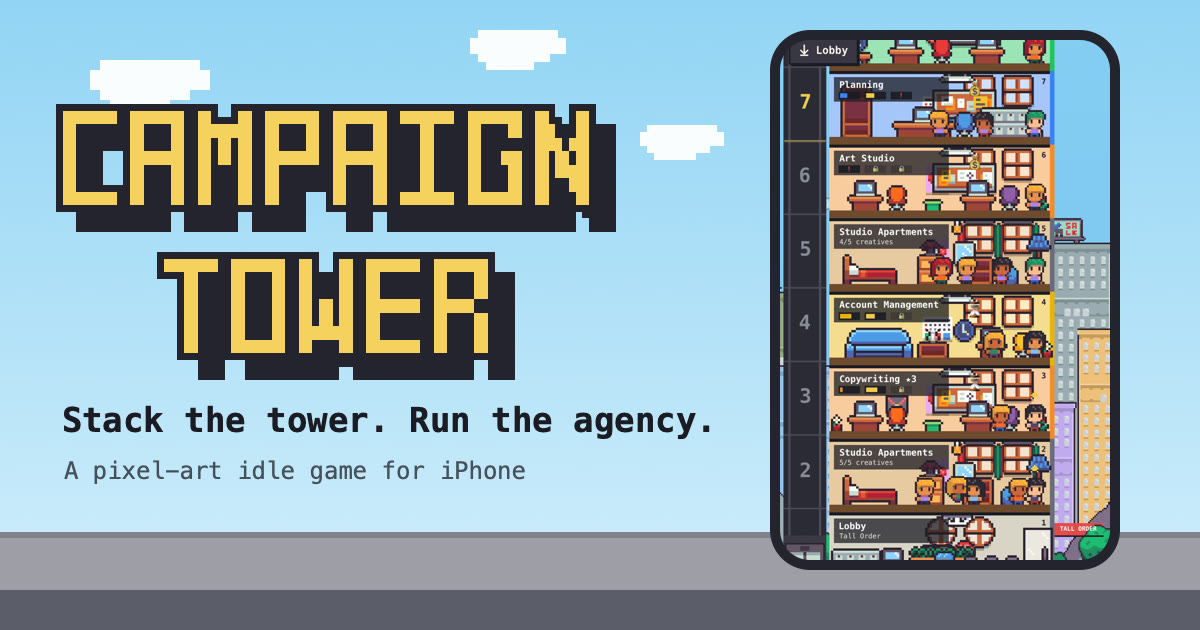
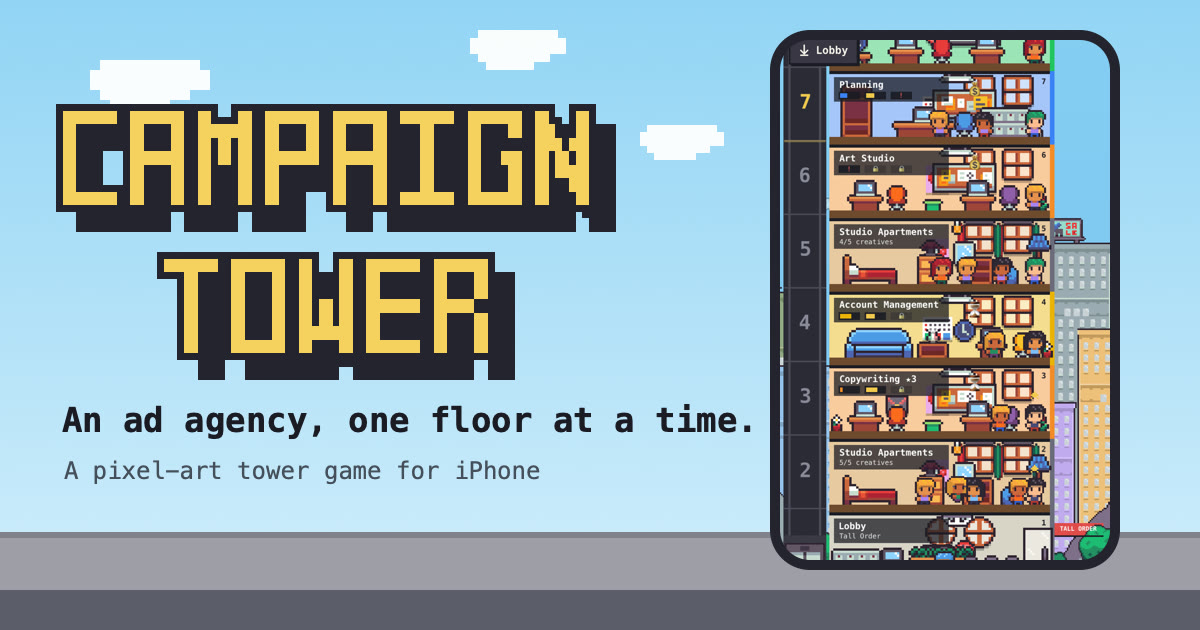
Rewrite the landing page copy

Changed region(s): [[0.0308, 0.6333, 0.6167, 0.6937], [0.185, 0.7238, 0.4625, 0.7841]]

diff --git a/index.html b/index.html
@@ -3,13 +3,13 @@
 <head>
 <meta charset="utf-8">
 <meta name="viewport" content="width=device-width,initial-scale=1">
-<title>Campaign Tower — stack the tower, run the agency</title>
-<meta name="description" content="Campaign Tower is a pixel-art idle game for iPhone. Stack a one-room startup into a global ad agency: hire creatives with opinions, drive the lift, and win briefs from sixty brands with no subtlety at all.">
+<title>Campaign Tower: build an ad agency one floor at a time</title>
+<meta name="description" content="A pixel-art tower game for iPhone. Build an ad agency floor by floor, hire creatives with strange habits, drive the lift yourself and win briefs from sixty made-up brands.">
 <link rel="canonical" href="https://njvb.github.io/campaigntower-site/">
 <meta property="og:type" content="website">
 <meta property="og:url" content="https://njvb.github.io/campaigntower-site/">
 <meta property="og:title" content="Campaign Tower">
-<meta property="og:description" content="Stack the tower. Run the agency. A pixel-art idle game about the ad business, for iPhone.">
+<meta property="og:description" content="Your ad agency starts in one room above a shop. A pixel-art tower game for iPhone.">
 <meta property="og:image" content="https://njvb.github.io/campaigntower-site/img/share.jpg">
 <meta property="og:image:width" content="1200">
 <meta property="og:image:height" content="630">
@@ -44,20 +44,20 @@
   <div class="wrap">
     <div class="hero-top">
       <img class="wordmark px" src="img/wordmark.png" alt="Campaign Tower" width="664" height="328">
-      <h1 id="hero-title">You've played the tower games. <em>Now run the agency.</em></h1>
+      <h1 id="hero-title">Your ad agency starts in one room above a shop. <em>It won't stay there.</em></h1>
     </div>
     <div class="phone-wrap">
       <div class="phone">
         <video src="media/lift.mp4" poster="media/lift-poster.jpg" autoplay muted loop playsinline preload="metadata" width="430" height="932" aria-label="Gameplay: a visitor rides the lift up the tower"></video>
       </div>
-      <span class="tag">Press &amp; hold to ride</span>
+      <span class="tag">Hold to go up</span>
     </div>
     <div class="hero-cta">
-      <p class="lead">Stack a one-room startup into a global ad network, one floor, one hire and one impossible brief at a time. Every floor is a department. Every creative has a dream role. Every client wants it yesterday.</p>
+      <p class="lead">Build new floors, hire creatives who all think they're the next big thing, and drive the lift yourself because nobody budgeted for a lift operator. Clients walk in with briefs. You hand over the work. Mostly on time.</p>
       <div class="cta">
         <a class="btn store js-store" href="#get"><small>Download on the</small><span>App Store</span></a>
       </div>
-      <p class="note">Free · No energy meter · No paywalled floors</p>
+      <p class="note">Free · No energy meter · Nothing behind a paywall</p>
     </div>
   </div>
   <div class="street" aria-hidden="true"></div>
@@ -65,36 +65,36 @@
 
 <section class="tour" aria-labelledby="tour-title">
   <div class="wrap head">
-    <h2 id="tour-title">Take the tour</h2>
+    <h2 id="tour-title">Have a look around</h2>
     <div class="arrows"><button type="button" data-dir="-1" aria-label="Previous screenshots">‹</button><button type="button" data-dir="1" aria-label="Next screenshots">›</button></div>
   </div>
   <div class="track" tabindex="0" aria-label="Screenshots">
-    <figure class="card"><p>Every floor is another department.</p><img src="img/shots/01-tower.jpg" alt="The tower from the lobby up, every floor busy with pixel creatives" width="540" height="1170" loading="lazy"></figure>
-    <figure class="card"><p>Deliver the brief. Sign the client.</p><img src="img/shots/02-campaign.jpg" alt="A campaign brief with the work to deliver, the odds and the prize" width="540" height="1170" loading="lazy"></figure>
-    <figure class="card"><p>Climb the New Business League.</p><img src="img/shots/03-league.jpg" alt="The New Business League table, seven agencies in a three-day season" width="540" height="1170" loading="lazy"></figure>
-    <figure class="card"><p>Hire three. Match the dream role.</p><img src="img/shots/04-floor.jpg" alt="A department floor and its team of three creatives" width="540" height="1170" loading="lazy"></figure>
-    <figure class="card"><p>Run the work across town.</p><img src="img/shots/05-dash.jpg" alt="Deadline Dash: a creative running down the high street" width="540" height="1170" loading="lazy"></figure>
-    <figure class="card"><p>A new event every week.</p><img src="img/shots/06-agency.jpg" alt="The agency hub with this week's event, perks, missions and mini-games" width="540" height="1170" loading="lazy"></figure>
-    <figure class="card"><p>32 floor types. Keep stacking.</p><img src="img/shots/07-top.jpg" alt="The top of the tower with the next floor ready to build" width="540" height="1170" loading="lazy"></figure>
+    <figure class="card"><p>Every floor's a department. Keep stacking.</p><img src="img/shots/01-tower.jpg" alt="The tower from the lobby up, every floor busy with pixel creatives" width="540" height="1170" loading="lazy"></figure>
+    <figure class="card"><p>A client! With a brief! Due Friday.</p><img src="img/shots/02-campaign.jpg" alt="A campaign brief with the work to deliver, the odds and the prize" width="540" height="1170" loading="lazy"></figure>
+    <figure class="card"><p>Beat the agency down the road.</p><img src="img/shots/03-league.jpg" alt="The New Business League table, seven agencies in a three-day season" width="540" height="1170" loading="lazy"></figure>
+    <figure class="card"><p>Give people the job they want.</p><img src="img/shots/04-floor.jpg" alt="A department floor and its team of three creatives" width="540" height="1170" loading="lazy"></figure>
+    <figure class="card"><p>The work has to get there somehow.</p><img src="img/shots/05-dash.jpg" alt="Deadline Dash: a creative running down the high street" width="540" height="1170" loading="lazy"></figure>
+    <figure class="card"><p>Something different every week.</p><img src="img/shots/06-agency.jpg" alt="The agency hub with this week's event, perks, missions and mini-games" width="540" height="1170" loading="lazy"></figure>
+    <figure class="card"><p>There's always another floor.</p><img src="img/shots/07-top.jpg" alt="The top of the tower with the next floor ready to build" width="540" height="1170" loading="lazy"></figure>
   </div>
 </section>
 
 <section class="floor" id="loop" aria-labelledby="loop-title">
   <div class="wrap">
     <div class="plate"><span class="n">1F</span><span class="t">The game</span></div>
-    <h2 id="loop-title">Build it, staff it, bill it.</h2>
-    <p class="intro">Borrowed from the best tower games, re-themed for anyone who has sat through a status call.</p>
+    <h2 id="loop-title">How an agency gets tall</h2>
+    <p class="intro">If you've played a tower game before, you know the drill. This one just has more status meetings.</p>
     <div class="beats">
-      <article class="beat"><img class="px" src="img/build.jpg" alt="The top of the tower, with floor 11 ready to build" width="640" height="570" loading="lazy"><div><h3>Build</h3><p>Every floor is a department: Copywriting, Social, the Photo Studio, a Rooftop Bar. Each makes three tiers of work, from a Tagline to a Full Ad Suite, and sells it while you're away.</p></div></article>
-      <article class="beat"><img class="px" src="img/hire.jpg" alt="A department's team of three, each with skills and a dream role" width="640" height="616" loading="lazy"><div><h3>Hire</h3><p>Three creatives to a floor. Put them in the role they've always dreamed of and they work harder. Level them to 20 and kit them out with gear.</p></div></article>
-      <article class="beat"><img class="px" src="img/win.jpg" alt="A brief from Blockchain Bagels, with the units needed and the prize" width="640" height="684" loading="lazy"><div><h3>Win</h3><p>A client walks in with a brief. Deliver it from stock and they sign as an account, paying you by the hour. Then you decide who stays.</p></div></article>
+      <article class="beat"><img class="px" src="img/build.jpg" alt="The top of the tower, with floor 11 ready to build" width="640" height="570" loading="lazy"><div><h3>Build</h3><p>Pick a department and put a floor on top. Copywriting, Social, a Photo Studio, a Rooftop Bar if morale's looking shaky. Each floor makes work, from a humble Tagline up to a Full Ad Suite, and sells it while you're off doing something else.</p></div></article>
+      <article class="beat"><img class="px" src="img/hire.jpg" alt="A department's team of three, each with skills and a dream role" width="640" height="616" loading="lazy"><div><h3>Hire</h3><p>Three people per floor. Everyone has a dream job, and if you actually give it to them, they try harder. Funny how that works. Level them up and sort out their gear. A good chair goes a long way.</p></div></article>
+      <article class="beat"><img class="px" src="img/win.jpg" alt="A brief from Blockchain Bagels, with the units needed and the prize" width="640" height="684" loading="lazy"><div><h3>Win</h3><p>A client walks in with a brief. Hand over the work from your shelves and they sign on, paying you every hour after that. Some are worth keeping. Some really aren't.</p></div></article>
     </div>
     <div class="facts">
       <div><b>32</b><span>floor types</span></div>
-      <div><b>60</b><span>fictional brands</span></div>
+      <div><b>60</b><span>made-up brands</span></div>
       <div><b>36</b><span>achievements</span></div>
-      <div><b>12</b><span>perks to unlock</span></div>
-      <div><b>0</b><span>energy meters</span></div>
+      <div><b>12</b><span>perks</span></div>
+      <div><b>0</b><span>energy meters, thankfully</span></div>
     </div>
   </div>
 </section>
@@ -102,13 +102,13 @@
 <section class="floor alt" id="staff" aria-labelledby="staff-title">
   <div class="wrap">
     <div class="plate"><span class="n">2F</span><span class="t">The staff</span></div>
-    <h2 id="staff-title">Every creative comes with a quirk.</h2>
-    <p class="intro">Names, skills from 0 to 9, a dream role and one personality trait HR has given up on. Here are a few who applied this week.</p>
+    <h2 id="staff-title">Meet the creatives</h2>
+    <p class="intro">Everyone turns up with a set of skills, a job they'd love, and one habit HR has stopped bringing up. A few from this week's pile of CVs:</p>
     <div class="badges">
-      <article class="badge" style="--c:var(--red)"><div class="face" aria-hidden="true">MO</div><h3>Maya Okafor</h3><p class="role">Dreams of the Print Shop</p><p class="quirk">Has strong opinions about kerning.</p></article>
-      <article class="badge" style="--c:var(--blue)"><div class="face" aria-hidden="true">TS</div><h3>Theo Sato</h3><p class="role">Dreams of the Social Team</p><p class="quirk">Will pitch anything as a podcast.</p></article>
-      <article class="badge" style="--c:var(--green)"><div class="face" aria-hidden="true">PD</div><h3>Priya Delgado</h3><p class="role">Dreams of the Focus Group Room</p><p class="quirk">Keeps a sourdough starter under the desk.</p></article>
-      <article class="badge" style="--c:var(--gold)"><div class="face" aria-hidden="true">JM</div><h3>Jonah Moreau</h3><p class="role">Dreams of the Client Lounge</p><p class="quirk">Once sold a logo to a dog.</p></article>
+      <article class="badge" style="--c:var(--red)"><div class="face" aria-hidden="true">MO</div><h3>Maya Okafor</h3><p class="role">Wants the Print Shop</p><p class="quirk">Has strong opinions about kerning.</p></article>
+      <article class="badge" style="--c:var(--blue)"><div class="face" aria-hidden="true">TS</div><h3>Theo Sato</h3><p class="role">Wants the Social Team</p><p class="quirk">Will pitch anything as a podcast.</p></article>
+      <article class="badge" style="--c:var(--green)"><div class="face" aria-hidden="true">PD</div><h3>Priya Delgado</h3><p class="role">Wants the Focus Group Room</p><p class="quirk">Keeps a sourdough starter under the desk.</p></article>
+      <article class="badge" style="--c:var(--gold)"><div class="face" aria-hidden="true">JM</div><h3>Jonah Moreau</h3><p class="role">Wants the Client Lounge</p><p class="quirk">Once sold a logo to a dog.</p></article>
     </div>
   </div>
 </section>
@@ -116,8 +116,8 @@
 <section class="floor" id="clients" aria-labelledby="clients-title">
   <div class="wrap">
     <div class="plate"><span class="n">3F</span><span class="t">The clients</span></div>
-    <h2 id="clients-title">Sixty brands, none of them subtle.</h2>
-    <p class="intro">Win the brief and the brand joins your roster. The roster has a cap, so like any good fantasy squad, somebody has to go.</p>
+    <h2 id="clients-title">Clients with big opinions of themselves</h2>
+    <p class="intro">Sixty of them, all invented, all very sure they're the next big thing. Win a brief and that brand joins your roster. The roster only holds so many, though, so sooner or later someone gets the polite email.</p>
   </div>
   <div class="marquee" aria-hidden="true">
     <div class="row"><span>Crunchy Cola</span><span>Moo Milk</span><span>Bytefruit Phones</span><span>Quiet Cat Litter</span><span>Blockchain Bagels</span><span>Unicorn Oat Milk</span><span>Hoverpup Drones</span><span>Grandma's Gravy</span><span>Bark Bank</span><span>Thunder Burger</span><span>Wobble Jelly</span><span>Velour Yachts</span><span>Crunchy Cola</span><span>Moo Milk</span><span>Bytefruit Phones</span><span>Quiet Cat Litter</span><span>Blockchain Bagels</span><span>Unicorn Oat Milk</span><span>Hoverpup Drones</span><span>Grandma's Gravy</span><span>Bark Bank</span><span>Thunder Burger</span><span>Wobble Jelly</span><span>Velour Yachts</span></div>
@@ -125,10 +125,10 @@
   </div>
   <div class="wrap">
     <div class="roster">
-      <div class="panel" style="--accent:var(--green)"><h3>Cash cow</h3><p>Pays beautifully. Will never, ever win an award.</p></div>
-      <div class="panel" style="--accent:var(--gold)"><h3>Trophy</h3><p>Loses money, wins awards, keeps the creatives happy.</p></div>
-      <div class="panel" style="--accent:var(--blue)"><h3>Bread &amp; butter</h3><p>Does exactly what it says on the tin.</p></div>
-      <div class="panel" style="--accent:var(--red)"><h3>Startup</h3><p>Could double next month. Could vanish next week.</p></div>
+      <div class="panel" style="--accent:var(--green)"><h3>Cash cow</h3><p>Pays well. Will never win you an award, and doesn't care.</p></div>
+      <div class="panel" style="--accent:var(--gold)"><h3>Trophy</h3><p>Costs you money. Wins you awards. The creatives adore it.</p></div>
+      <div class="panel" style="--accent:var(--blue)"><h3>Bread &amp; butter</h3><p>Turns up, pays, doesn't make a fuss.</p></div>
+      <div class="panel" style="--accent:var(--red)"><h3>Startup</h3><p>Might double next month. Might not exist next week.</p></div>
     </div>
   </div>
 </section>
@@ -136,22 +136,22 @@
 <section class="floor alt" id="league" aria-labelledby="league-title">
   <div class="wrap">
     <div class="plate"><span class="n">4F</span><span class="t">Between floors</span></div>
-    <h2 id="league-title">Always something to chase.</h2>
-    <p class="intro">The tower builds itself while you're gone. These are the reasons to come back.</p>
+    <h2 id="league-title">Things to do while the tower builds</h2>
+    <p class="intro">New floors take a while. Here's what fills the gaps.</p>
     <div class="split">
       <img class="shot px" src="img/league.jpg" alt="The New Business League: your agency top of a seven-agency table" width="640" height="844" loading="lazy">
       <div class="stack">
-        <div class="panel" style="--accent:var(--gold)"><h3>The New Business League</h3><p>At 10 floors you join a table of seven agencies for a three-day season. Win briefs, claim missions and open floors to score. Beat a rival in a pitch and they lose points too. Climb from Local to Regional, National and Global.</p></div>
-        <div class="panel" style="--accent:var(--blue)"><h3>A new event every Monday</h3><p>Each week tilts the odds your way, and the hub tells you what's coming next.</p>
+        <div class="panel" style="--accent:var(--gold)"><h3>The New Business League</h3><p>Hit 10 floors and you're in a league with six rival agencies. Seasons last three days, and you score by winning briefs, finishing missions and opening floors. Beat a rival in a pitch and they lose points too, which never stops being satisfying. Finish near the top and you go up a division, from Local all the way to Global.</p></div>
+        <div class="panel" style="--accent:var(--blue)"><h3>Every Monday, something new</h3><p>Each week has a theme that bends the rules a bit in your favour. The hub tells you what's coming next week, so you can plan ahead. Or not.</p>
           <div class="chips"><span>Talent Week</span><span>Pitch Season</span><span>Open House</span><span>Training Week</span><span>Awards Season</span></div></div>
-        <div class="panel" style="--accent:var(--green)"><h3>Rush Hour</h3><p>Once a day: sixty seconds, one lift, everybody at once. Your best round goes on the board.</p></div>
+        <div class="panel" style="--accent:var(--green)"><h3>Rush Hour</h3><p>Once a day the lobby floods and you've got sixty seconds to ferry up as many people as you can. Your best score hangs around to taunt you.</p></div>
       </div>
     </div>
     <div class="dash">
       <video src="media/dash.mp4" poster="media/dash-poster.jpg" autoplay muted loop playsinline preload="none" width="640" height="570" aria-label="Deadline Dash: a creative runs down the high street, jumping obstacles"></video>
       <div>
         <h3 style="font-size:20px;color:var(--gold)">Deadline Dash</h3>
-        <p class="intro" style="margin-bottom:0">Your best creative grabs the work and runs it across town. Benches, cones, hydrants, a suspiciously placed bucket. The street speeds up the further you get, and your personal best is always watching.</p>
+        <p class="intro" style="margin-bottom:0">Your best creative grabs the work and legs it across town. Hop the benches, the cones, the hydrant, and the bucket someone just left there. It gets faster the longer you last.</p>
       </div>
     </div>
   </div>
@@ -161,13 +161,13 @@
   <div class="wrap sound">
     <div>
       <div class="plate"><span class="n">5F</span><span class="t">The soundtrack</span></div>
-      <h2 id="music-title">An original 8-bit soundtrack.</h2>
-      <p class="intro" style="margin-bottom:0">Six chiptune tracks written for the game: four for the tower, two for the mini-games. Every event has its own blip, from a tip landing to a pitch lost. Music steps aside the moment you put on your own.</p>
+      <h2 id="music-title">It has a soundtrack, too</h2>
+      <p class="intro" style="margin-bottom:0">Six chiptune tracks written just for the game. Four play while you build and two kick in for the mini-games. Tips, hires and lost pitches all get their own little bleep. Prefer your own music? Put it on and the game quietly gets out of the way.</p>
     </div>
     <div class="player" id="player">
       <button class="play" type="button" aria-label="Play Lobby Hours">▶</button>
       <div class="meta">
-        <b>Lobby Hours</b><small>From the tower · 24-second preview</small>
+        <b>Lobby Hours</b><small>Plays in the tower · 24-second clip</small>
         <div class="meter" aria-hidden="true"><i></i></div>
         <div class="eq" aria-hidden="true"><i></i><i></i><i></i><i></i><i></i><i></i><i></i><i></i><i></i><i></i><i></i><i></i></div>
       </div>
@@ -179,12 +179,12 @@
 <section class="floor alt" aria-labelledby="fair-title">
   <div class="wrap">
     <div class="plate"><span class="n">6F</span><span class="t">House rules</span></div>
-    <h2 id="fair-title">Fair, free and friendly.</h2>
-    <p class="intro">Sessions are 30 seconds or 30 minutes. The agency keeps billing either way.</p>
+    <h2 id="fair-title">The fine print (it's short)</h2>
+    <p class="intro">Play for thirty seconds or an hour. The agency keeps billing either way.</p>
     <div class="promises">
-      <div class="panel" style="--accent:var(--gold)"><h3>Free to play</h3><p>Optional rewarded ads and three purchases: two Awards packs and the Agency Pass. No energy meter, no paywalled floors.</p></div>
-      <div class="panel" style="--accent:var(--blue)"><h3>Plays while you don't</h3><p>Offline earnings while you're away, and iCloud sync so the agency follows you between devices.</p></div>
-      <div class="panel" style="--accent:var(--green)"><h3>Built for everyone</h3><p>Larger text, an assisted lift, a VoiceOver floors menu and reduced motion. Sound, music and haptics each have their own switch.</p></div>
+      <div class="panel" style="--accent:var(--gold)"><h3>Free to play</h3><p>You can watch the odd ad for a reward if you like, and there are three things to buy: two packs of Awards and the Agency Pass. There's no energy meter, and you never have to pay to build a floor.</p></div>
+      <div class="panel" style="--accent:var(--blue)"><h3>Keeps going without you</h3><p>The tower earns money while the app's closed, and iCloud keeps your agency in sync if you switch phones.</p></div>
+      <div class="panel" style="--accent:var(--green)"><h3>Easy on everyone</h3><p>Bigger text, an assisted lift if holding the button is a pain, a VoiceOver menu for every floor, and less motion if you want it. Sound, music and vibration each switch off on their own.</p></div>
     </div>
   </div>
 </section>
@@ -192,8 +192,8 @@
 <section class="rooftop" id="get" aria-labelledby="get-title">
   <div class="wrap">
     <div class="plate"><span class="n">RF</span><span class="t">The rooftop</span></div>
-    <h2 id="get-title">The view from the top is excellent.</h2>
-    <p>Campaign Tower is free on iPhone. iOS 17 or later.</p>
+    <h2 id="get-title">Top floor. Nice view.</h2>
+    <p>Campaign Tower is free on iPhone (iOS 17 or later).</p>
     <a class="btn store js-store" href="#get"><small>Download on the</small><span>App Store</span></a>
   </div>
   <div class="skyline" aria-hidden="true"></div>
@@ -201,7 +201,7 @@
 </main>
 
 <footer><div class="wrap">
-  <span>© <span id="y"></span> Campaign Tower · Every brand, agency and creative is fictional. Any resemblance to your last job is a coincidence.</span>
+  <span>© <span id="y"></span> Campaign Tower · Every brand, agency and creative in here is made up. Any resemblance to your last job is a coincidence.</span>
   <nav><a href="support.html">Support</a><a href="privacy.html">Privacy</a><a href="mailto:njvanderbyl@gmail.com">Contact</a></nav>
 </div></footer>
 
